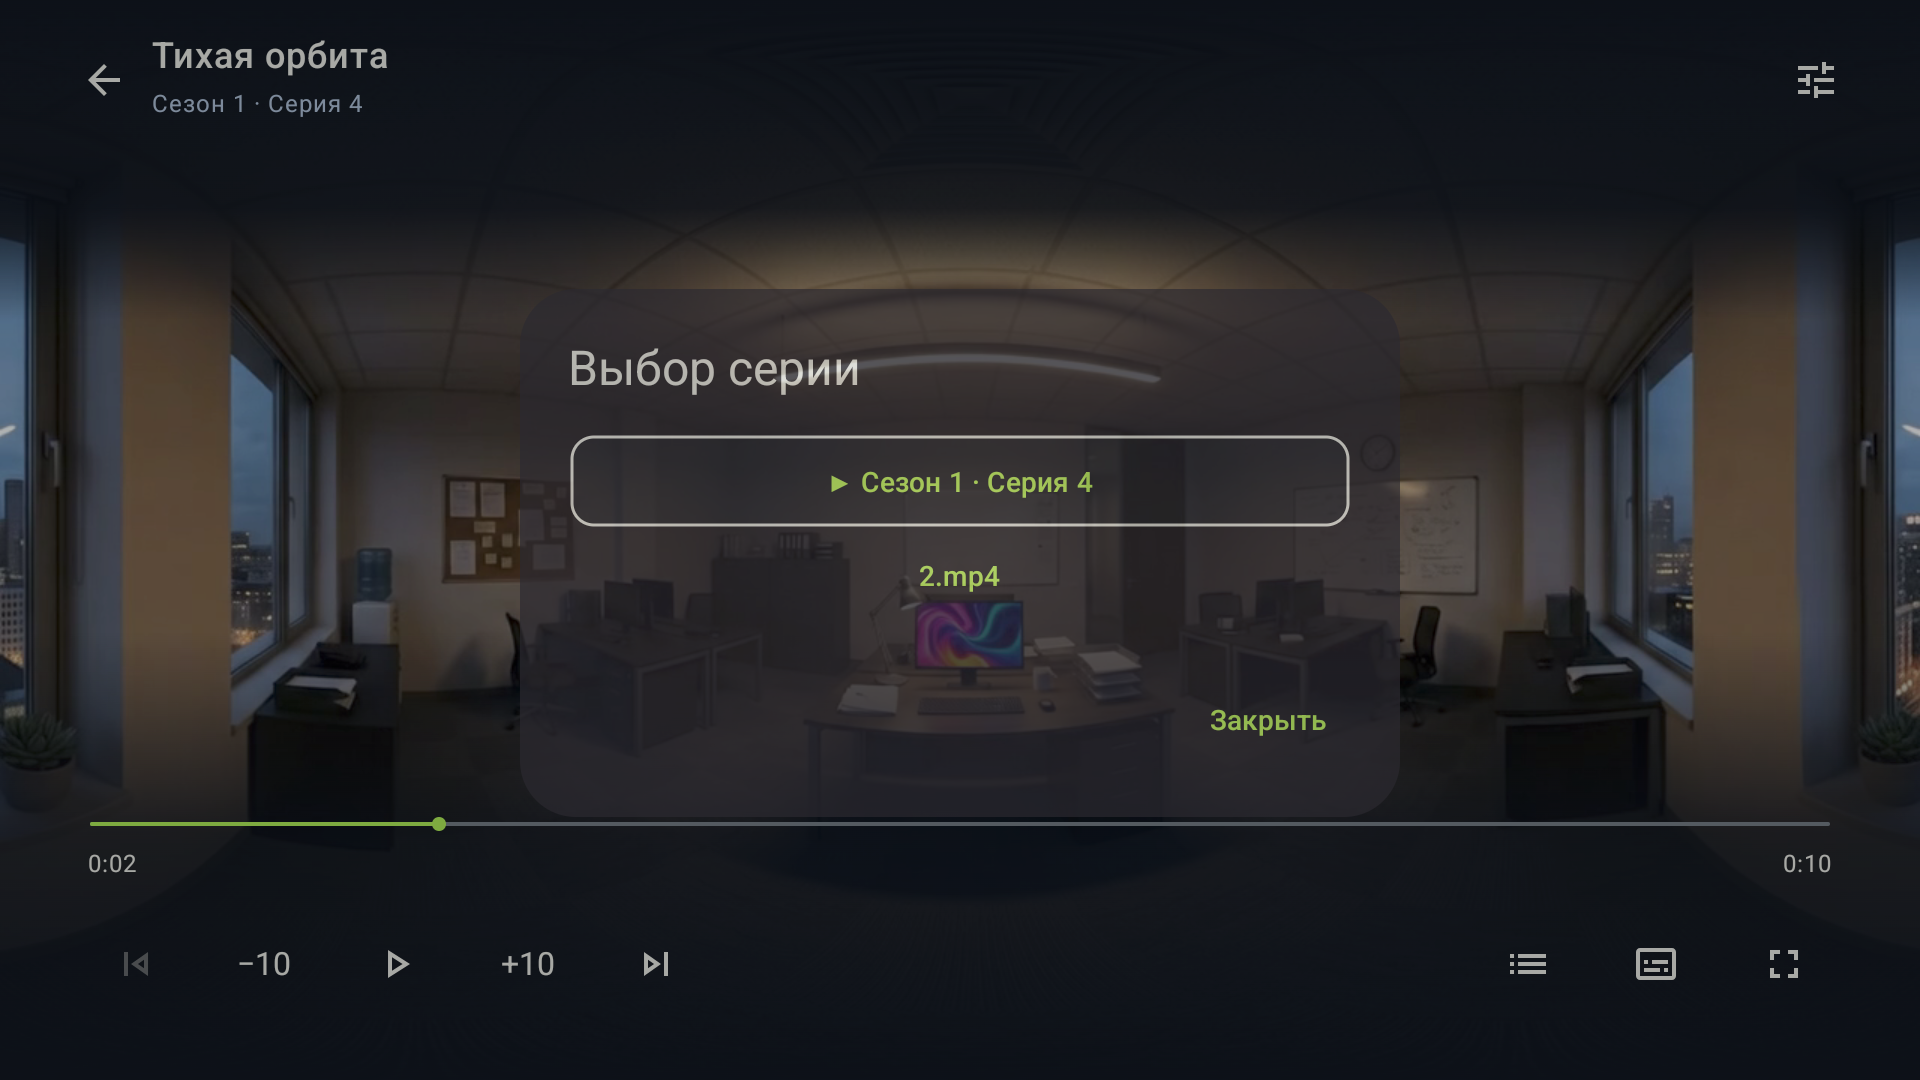
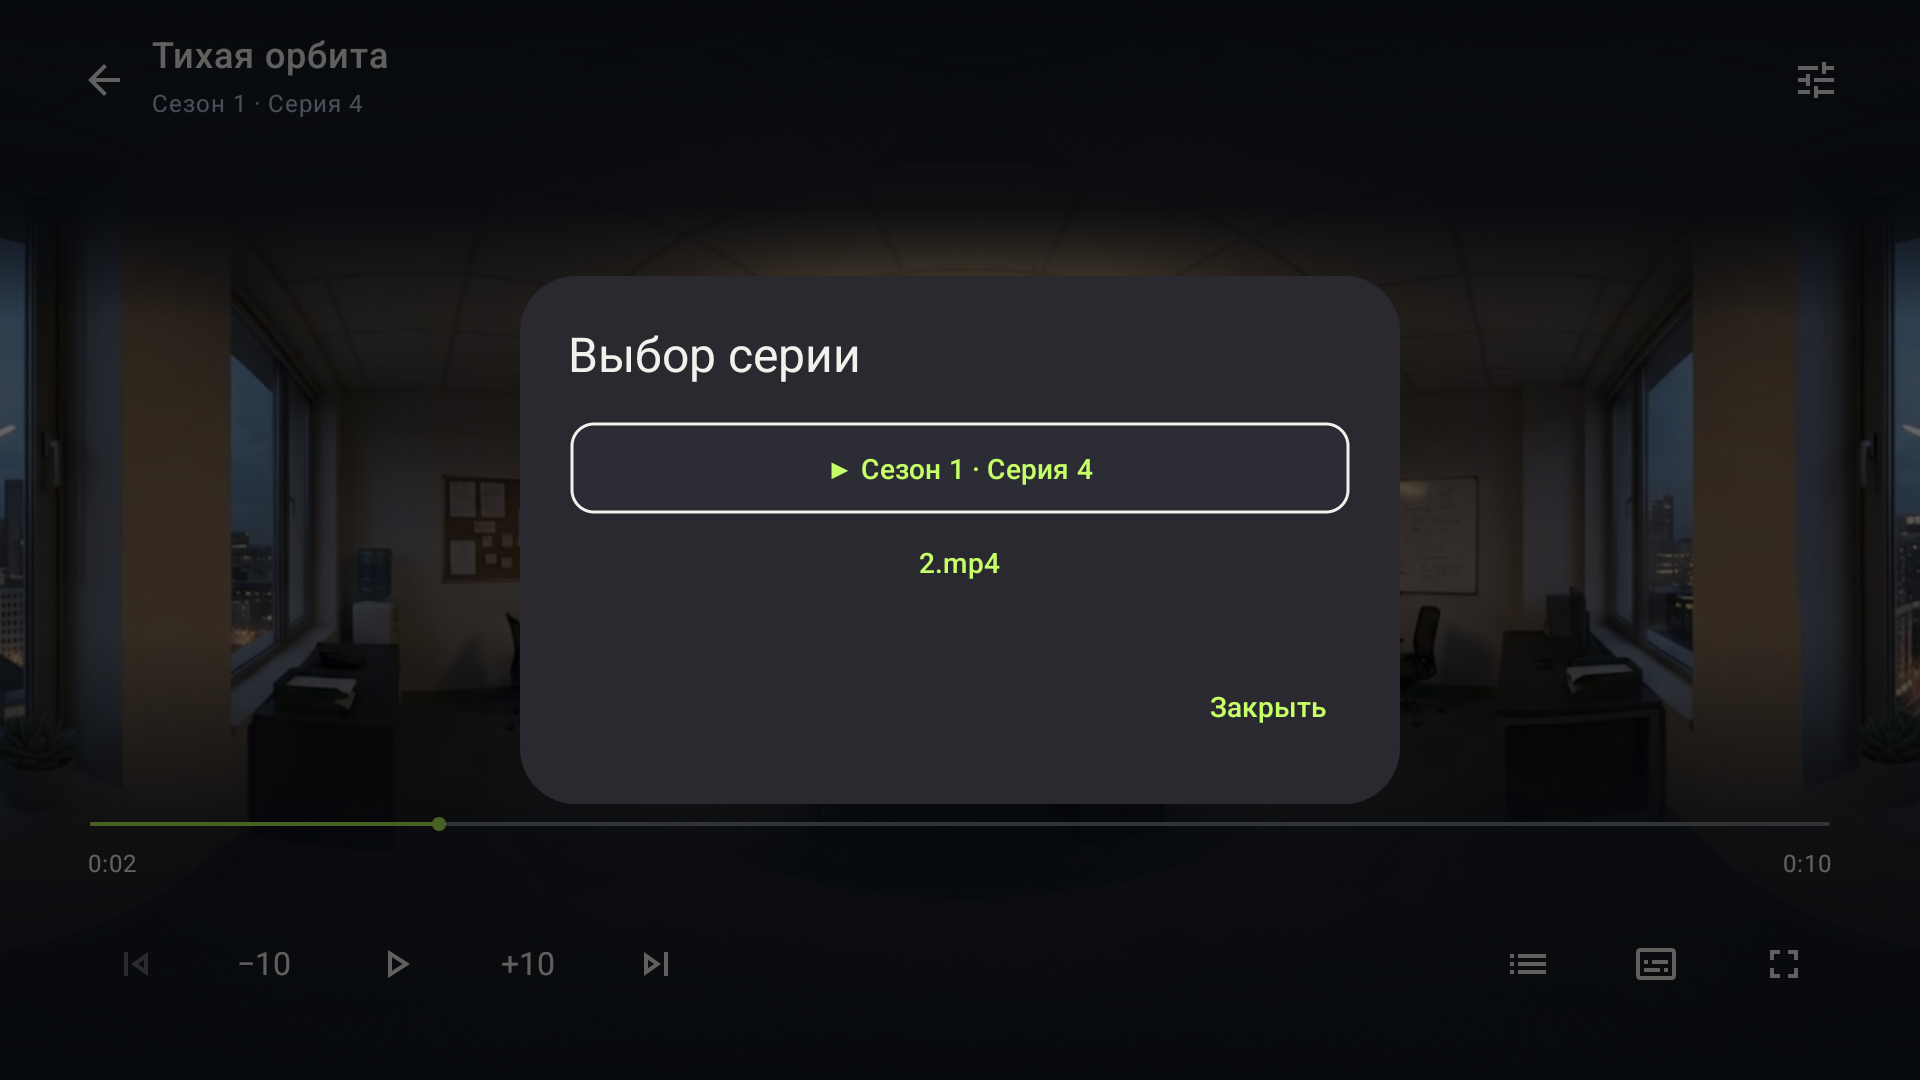
Capture fully opened native 1080p dialogs for final review

diff --git a/docs/testing/issue-32-player/README.md b/docs/testing/issue-32-player/README.md
@@ -27,6 +27,8 @@ Visual inspection confirmed soft continuous gradients, a thin lime track and cen
 | Same scenario, 1280×720 / 213 dpi, font scale 2.0 and long Russian title/path | 1/1; [log](font200.txt), [frame](font200/player-play.png) |
 | TV debug APK + TV/playback instrumentation APK builds, TV lint, mobile Kotlin compile | Passed; [build log](build.log), [test build](test-build.log), [native-dialog affected checks](dialog-build.log) |
 
+After the final native-selector code commit `91dcb11`, the 12 JVM checks, TV build/lint/mobile compile, 15 remote tests, all 4 installed real-video tests, font200 scenario and native 1080p scenario were repeated successfully. Native 1080p dialog captures were then refreshed with system animations disabled so the report shows fully opened windows.
+
 The existing tests cover hidden arrows/OK, held OK, timeline preview/confirm/cancel/blur, Back exit, modal return focus, timeout blockers, automatic skip/next rules and queue boundaries. Real-video tests cover preview and single Back exit, media Next boundaries, recreation preserving paused position/speed, quality/audio/speed/fit preserving actual playback state, plus hidden OK and hardware PLAY/PAUSE/PLAY_PAUSE. The state machine remains responsible for the six-second timer even while paused.
 
 The added design scenario asserts every transport/service content description remains available, each target is at least 48 dp, disabled Previous remains disabled, no action name is rendered as Text (including the playing `Пауза` state), and focus returns from episode/audio/video dialogs and the separate top audio entry. Screenshots cover changing focus, preview, dialogs and hidden controls. At 200% font, native `TextAutoSize` keeps the complete −10/+10 glyphs inside their original targets; the header uses ellipsis and the episode dialog scrolls.
